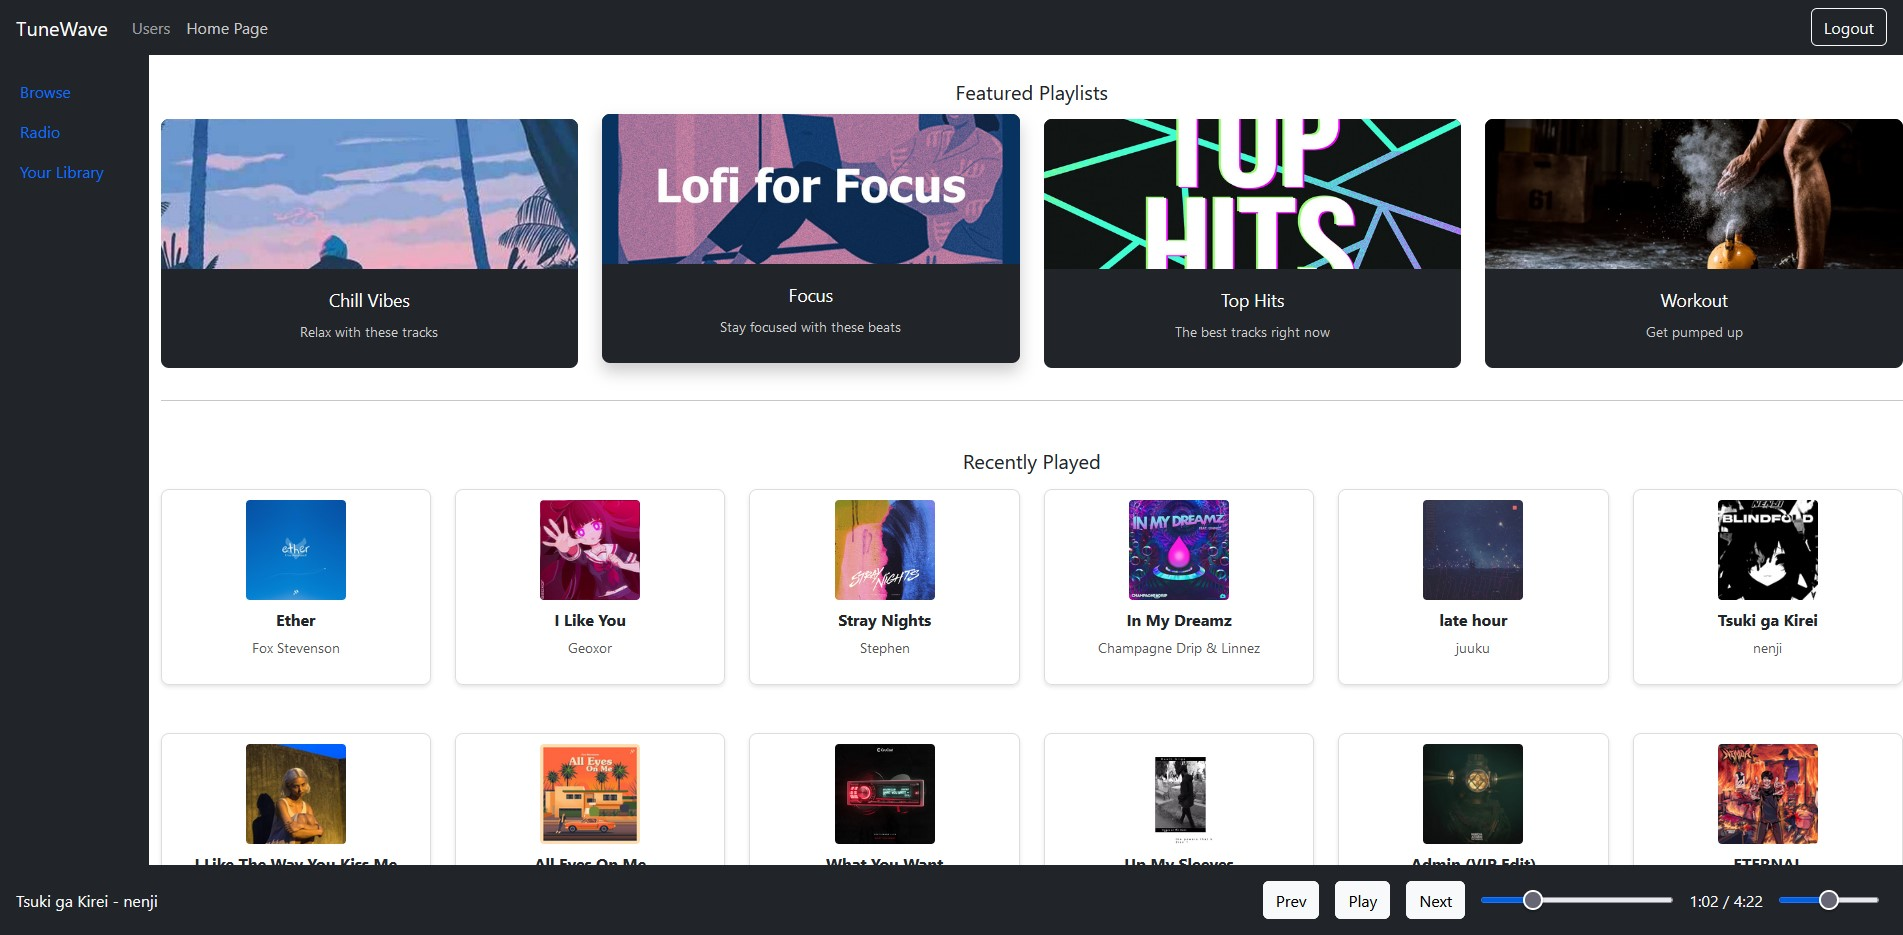
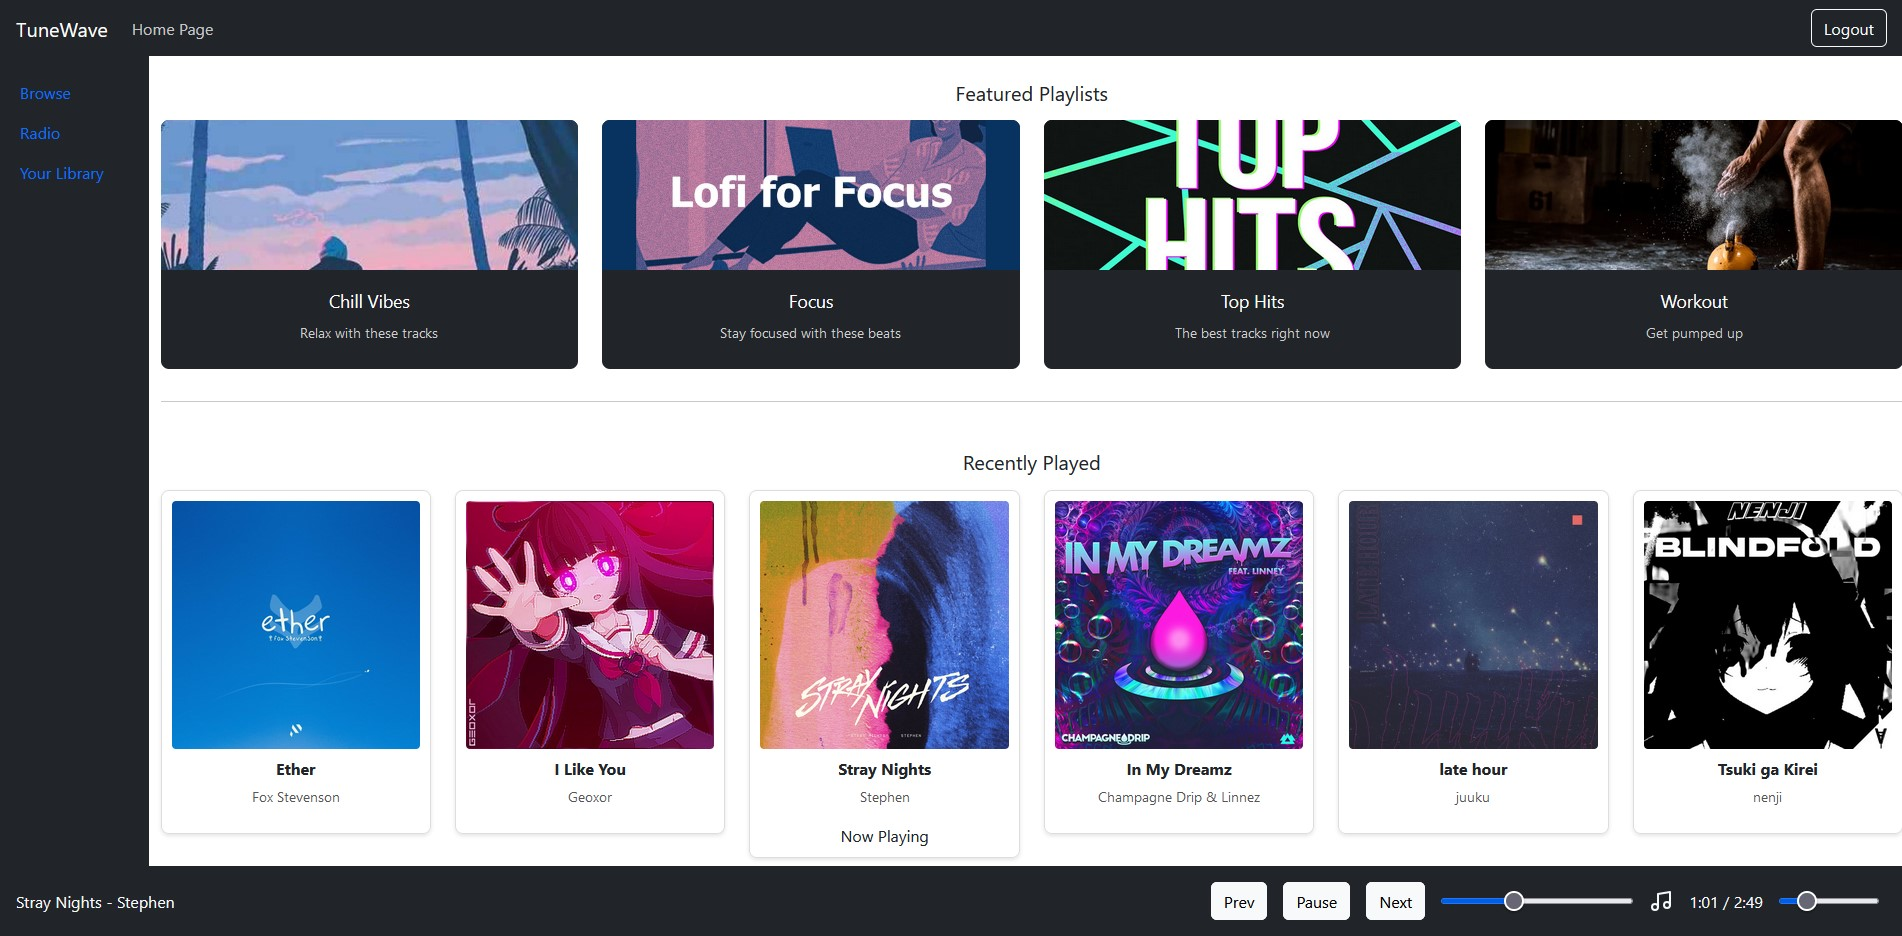
Changed image for README

diff --git a/song-front/src/components/common/Navbar.jsx b/song-front/src/components/common/Navbar.jsx
@@ -8,9 +8,9 @@ const NavBar = () => {
     <Navbar bg="dark" variant="dark" expand="lg" className="navbar">
       <Navbar.Brand className="ms-3">TuneWave</Navbar.Brand>
       <Nav className="mr-auto">
-        <Nav.Link as={Link} to="/users">
-          Users
-        </Nav.Link>
+        {/*    <Nav.Link as={Link} to="/users">
+         Users
+       </Nav.Link> */}
         <Nav.Link as={Link} to="/home">
           Home Page
         </Nav.Link>
